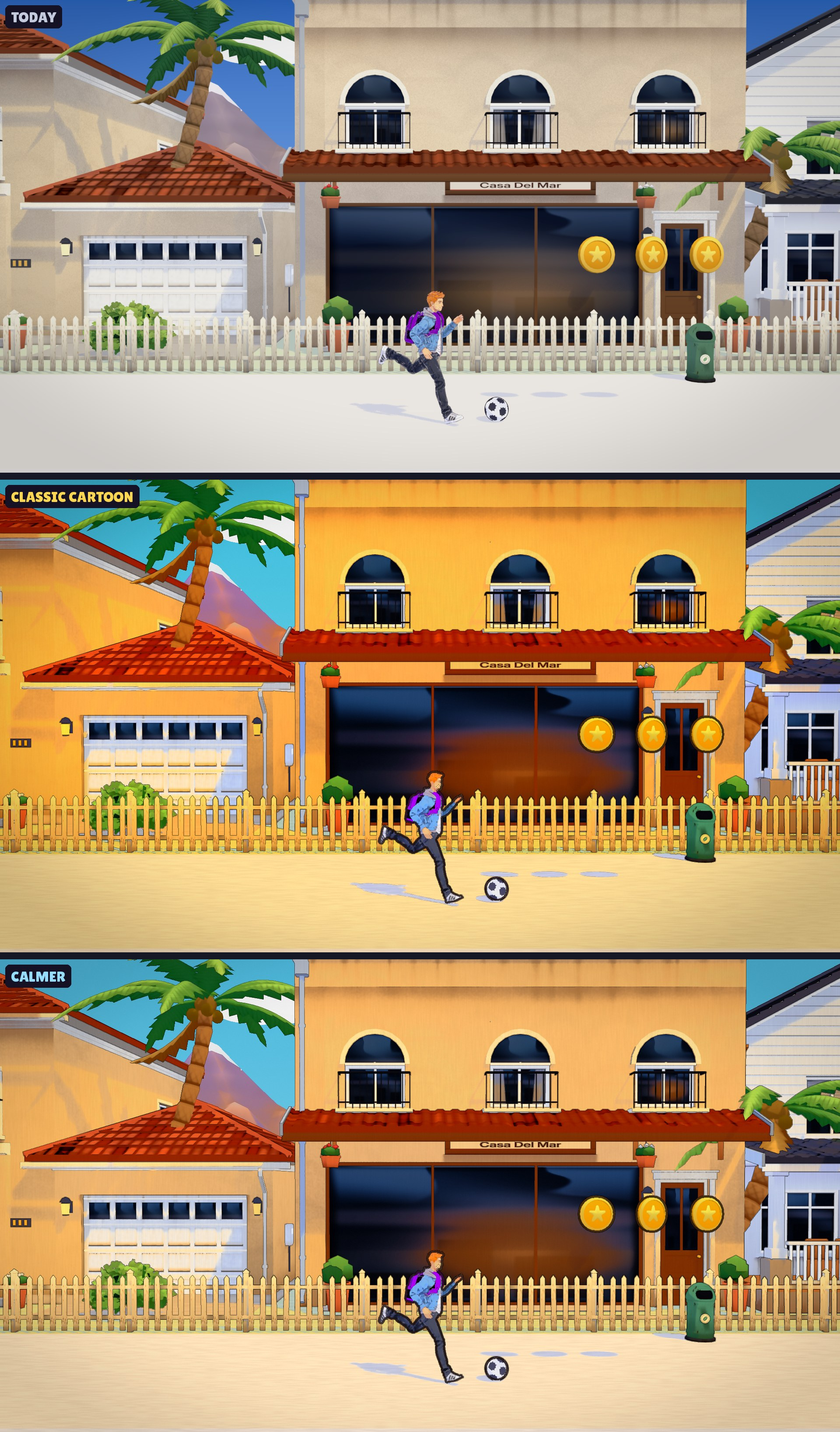
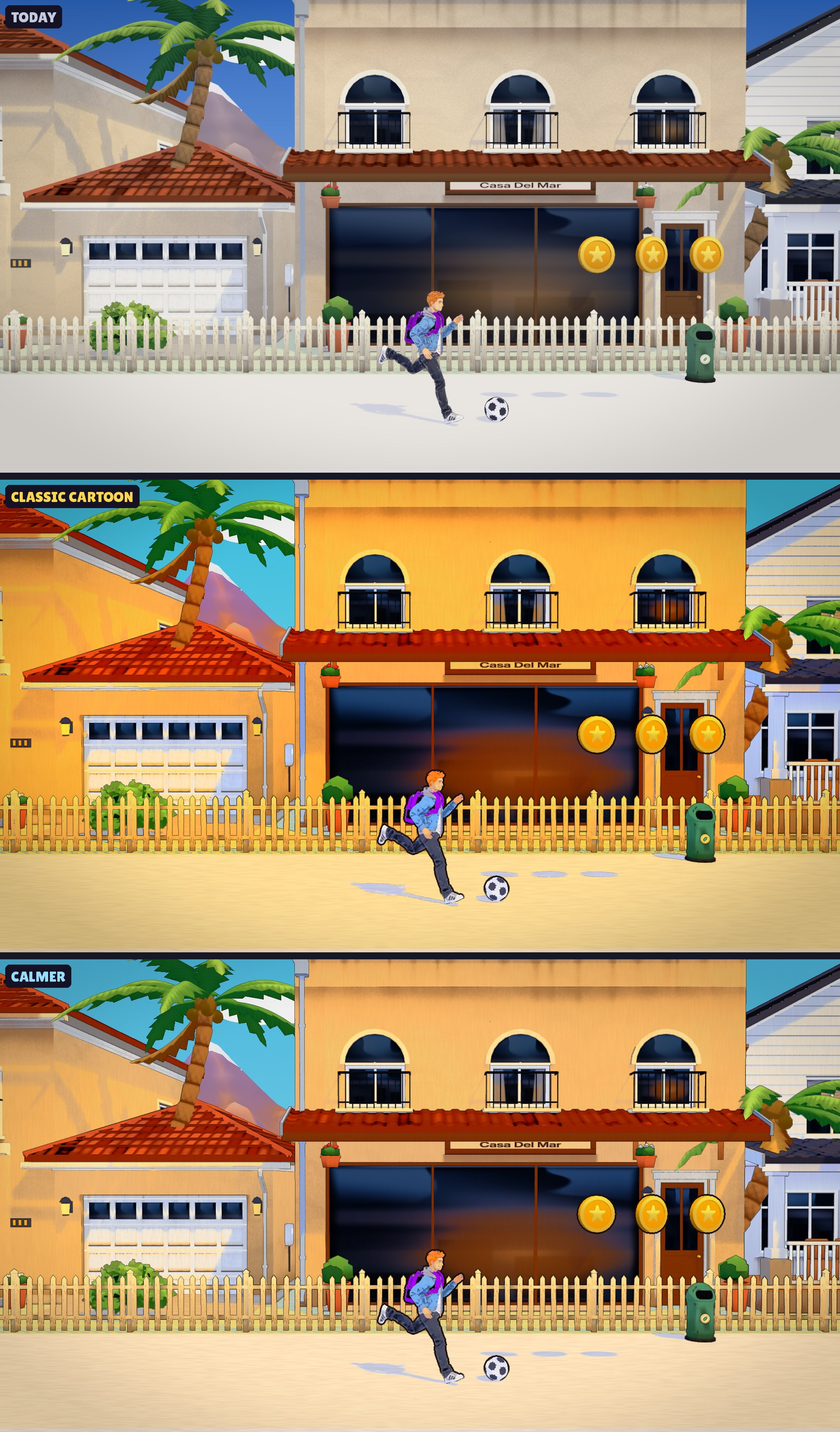
Classic cartoon artwork: the kids' outline no longer covers their faces
The outline was drawn inside the silhouette, so where a face met the
background (the right cheek in the three-quarter view) the line lay over
it. It is now drawn only on the far side of an edge (outside the
silhouette, or on a farther part behind a nearer one), solid up to its
width with an anti-aliased outer edge, sized by the nearer side's
distance. The menus' pictures get their outline outside their shape too.
New board 6_outline.jpg: every kid's face at 3x, before and after.

Claude-Session: https://claude.ai/code/session_015hMH18QThQGLzNLnkdW261

diff --git a/review/cartoon/classic_port.py b/review/cartoon/classic_port.py
@@ -39,7 +39,7 @@ CLASSIC = dict(
     # the cels
     # (the cels keep only strong detail: eyes, brows, mouths, seams; the painted shading's patches are smoothed away)
     celFlatten=1.5, celCoreFrom=0.08, celCoreTo=0.16, celBands=3.0, celBandSoft=0.22, celBandMix=0.6, celSat=1.3,
-    celLine=4.0, celLineFar=1.6, inkWarm=np.array([0.11, 0.06, 0.045]),
+    celLine=3.4, celLineFar=1.5, inkWarm=np.array([0.11, 0.06, 0.045]),   # (drawn outside the silhouette)
     # the painted background
     bgFlatten=2.5, bgSat=1.35, bgVibrance=1.8, bgBands=4.0, bgBandSoft=0.32, bgBandMix=0.6,
     warm=np.array([1.1, 0.97, 0.8]),                  # warm colours pushed toward orange (blues and greens stay)
@@ -184,26 +184,28 @@ def classic_pass(colour, alpha, depth01, normal, far=FAR, k=CLASSIC):
     cl = np.clip(1 - (1 - lb) * 0.9, 0, 1) * np.array([1.0, 1.0, 1.0]) * k['cloudShade'] ** (1 - sp.smoothstep(0.75, 0.95, lb))
     out = out * (1 - cloud) + cl * cloud
 
-    # ---- the cels' ink: a bold warm-black outline all round each figure (from the depth and the mask)
-    wpx = (k['celLine'] + (k['celLineFar'] - k['celLine']) * sp.smoothstep(4.0, 60.0, dist)) * scale
-    ink = np.zeros((h, w))
+    # ---- the cels' ink: a bold warm-black outline round each figure, drawn only on the FAR side of its edges (the
+    # background just outside the silhouette, or a farther part of a figure behind a nearer one), never on the near
+    # side, so it wraps a face without covering any of it. Sized by the nearer side's distance.
     figm = fig[..., 0]
-    for ring in (1.0, 1.5, 2.0, 2.5, 3.0, 3.5, 4.0, 4.5):
+    R = 4.0 * scale
+    dnear = np.minimum.reduce([depth01] + [cp.shift(depth01, dy, dx) for dy, dx in ((0, R), (0, -R), (R, 0), (-R, 0))])
+    wpx = (k['celLine'] + (k['celLineFar'] - k['celLine']) * sp.smoothstep(4.0, 60.0, dnear * far)) * scale
+    ink = np.zeros((h, w))
+    for ring in (1.0, 1.5, 2.0, 2.5, 3.0, 3.5, 4.0):
         r = ring * scale
-        use = np.clip(1 - np.abs(wpx - r) / (0.5 * scale), 0, 1)
+        use = np.clip((wpx - r) / (0.5 * scale) + 1, 0, 1)    # solid ink up to the width, fading over the last half pixel
         if use.max() <= 0:
             continue
-        # the mask read at half-pixel offsets (bilinear), so the line's edge is anti-aliased, not stair-stepped
+        # the mask read half a pixel further out (bilinear), so the line's outer edge is anti-aliased
         rh = r + 0.5
         offs = [(0, rh), (0, -rh), (rh, 0), (-rh, 0), (0.7 * rh, 0.7 * rh), (-0.7 * rh, 0.7 * rh), (0.7 * rh, -0.7 * rh), (-0.7 * rh, -0.7 * rh)]
-        # a figure pixel next to anything that is not the figure, or nearer than it
-        other = np.maximum.reduce([1 - shift_lin(figm, dy, dx) for dy, dx in offs])
-        ds = [cp.shift(depth01, dy, dx) for dy, dx in offs]
-        jumpf = np.maximum.reduce([np.abs(x - depth01) for x in ds]) / np.maximum(np.minimum.reduce([depth01] + ds), 1e-4)
-        edge = np.maximum(other, sp.smoothstep(0.04, 0.09, jumpf)) * figm
-        # and the background pixel just outside a figure (the line straddles the silhouette)
-        outside = np.maximum.reduce([shift_lin(figm, dy, dx) for dy, dx in offs[:4]]) * (1 - figm) * (ring <= 2.5)
-        ink = np.maximum(ink, np.maximum(edge, outside) * use)
+        here = np.zeros((h, w))
+        for dy, dx in offs:
+            dn = cp.shift(depth01, dy, dx)
+            nearer = sp.smoothstep(0.03, 0.07, (depth01 - dn) / np.maximum(dn, 1e-4))   # that neighbour is in front of me
+            here = np.maximum(here, shift_lin(figm, dy, dx) * nearer)
+        ink = np.maximum(ink, here * use)
     out = out + (k['inkWarm'] - out) * ink[..., None]
 
     # ---- the print
@@ -244,9 +246,8 @@ def classic_2d(rgba, painted=False, k=CLASSIC, flatten=None, outline_px=None):
     if outline_px:
         o = outline_px
         offs = [(0, o), (0, -o), (o, 0), (-o, 0), (0.7 * o, 0.7 * o), (-0.7 * o, 0.7 * o), (0.7 * o, -0.7 * o), (-0.7 * o, -0.7 * o)]
-        near = np.maximum.reduce([cp.shift(a, dy, dx) for dy, dx in offs])
-        inner = np.minimum.reduce([cp.shift(a, dy, dx) for dy, dx in offs[:4]])
-        edge = np.clip((np.clip(near - a, 0, 1) + np.clip(a - inner, 0, 1)) * 1.5, 0, 1)
+        near = np.maximum.reduce([shift_lin(a, dy, dx) for dy, dx in offs])
+        edge = np.clip((near - a) * 1.5, 0, 1)          # outside the shape only: nothing of the picture is covered
         out = out * (1 - edge[..., None]) + k['inkWarm'] * edge[..., None]
         a = np.maximum(a, np.clip(near - a, 0, 1))
     return np.dstack([np.clip(out, 0, 1), a])

diff --git a/review/cartoon/compose_boards.py b/review/cartoon/compose_boards.py
@@ -7,6 +7,7 @@ Every board shows three versions side by side: the game today, Classic cartoon, 
   3_ui_art.jpg        the pictures the menus draw: player cards, bags, all 23 stickers, the logo, the town map
   4_screens.jpg       the title screen and the Add-ons & Filters panel with the filter on (mock-ups)
   5_details.jpg       100% crops: the first version beside the crisper one (detail kept)
+  6_outline.jpg       every kid's face at 3x: the outline drawn outside the silhouette, so it never covers a face
   frames/<scene>.jpg  each scene at full size: today, Classic cartoon, calmer"""
 import os, sys, subprocess, importlib.util
 import numpy as np
@@ -28,6 +29,7 @@ YELLOW = (255, 214, 80)
 CALMC = (150, 220, 255)
 SOFT = (196, 202, 222)
 FIRST = 'ab5be92'   # the commit with the first version of the look (for 5_details.jpg)
+INSIDE = 'dd738b6'  # the commit whose outline lay inside the silhouette (for 6_outline.jpg)
 LOOKS = [('TODAY', SOFT), ('CLASSIC CARTOON', YELLOW), ('CALMER', CALMC)]
 
 
@@ -376,20 +378,20 @@ print('4_screens')
 
 
 # ------------------------------------------------------------------ 5. detail at 100%: the first version beside the crisper one
-def first_version():
-    """classic_port.py as first shown (commit FIRST), to show what the crisper version keeps."""
+def version_at(commit):
+    """classic_port.py as it was at a commit, to compare with now."""
     try:
-        src = subprocess.run(['git', '-C', HERE, 'show', FIRST + ':review/cartoon/classic_port.py'], capture_output=True, text=True, check=True).stdout
+        src = subprocess.run(['git', '-C', HERE, 'show', commit + ':review/cartoon/classic_port.py'], capture_output=True, text=True, check=True).stdout
     except Exception:
         return None
-    spec = importlib.util.spec_from_loader('classic_first', loader=None)
+    spec = importlib.util.spec_from_loader('classic_' + commit, loader=None)
     mod = importlib.util.module_from_spec(spec)
     mod.__dict__['__file__'] = os.path.join(HERE, 'classic_port.py')
-    exec(compile(src, 'classic_first', 'exec'), mod.__dict__)
+    exec(compile(src, 'classic_' + commit, 'exec'), mod.__dict__)
     return mod
 
 
-first = first_version()
+first = version_at(FIRST)
 DETAILS = [('market', (380, 280, 980, 620), 'Shop sign, awning, window'), ('home', (1150, 560, 1750, 900), 'Bicycle, coins, post box, block wall'),
            ('cast_a', (760, 230, 1180, 520), 'Max’s face and jacket'), ('cast_a', (1330, 400, 1680, 640), 'Kai’s face, the ball'),
            ('park', (1180, 180, 1780, 520), 'School, arch, lamps'), ('site', (60, 300, 660, 640), 'Digger, scaffold, site fence')]
@@ -411,3 +413,34 @@ for scene, box, title in DETAILS:
     p.append(row)
 stack(p, W5).save(os.path.join(OUT, '5_details.jpg'), quality=90)
 print('5_details')
+
+
+# ------------------------------------------------------------------ 6. the outline: outside the silhouette, never over a face
+inside = version_at(INSIDE)
+cols6 = [('TODAY', SOFT), ('BEFORE: LINE INSIDE', (255, 150, 120)), ('NOW: LINE OUTSIDE', YELLOW)]
+FS6 = 330
+blocks = []
+for scene in ('cast_a', 'cast_b'):
+    colour, alpha, depth01, nrm = cp.load_scene(SRC, scene)
+    o, c, _, _, _ = frames(scene)
+    b = cp.to_img(inside.classic_pass(colour, alpha, depth01, nrm)) if inside else None
+    for (cx, top, hgt), name in zip(heads(alpha, depth01), names[scene]):
+        if name == 'Passer-by':
+            continue
+        sz = int(hgt * 0.3)
+        y0 = max(0, top - sz // 10)
+        box = (cx - sz // 2, y0, cx + sz // 2, y0 + sz)
+        blocks.append((name, [o.crop(box), b.crop(box) if b else None, c.crop(box)]))
+W6 = 2 * (3 * FS6 + 2 * 8) + GAP * 3 + 40
+p = [header(W6, 'CLASSIC CARTOON \u00b7 the kids\u2019 outline', 'The outline is now drawn only outside the silhouette (on the far side of an edge), so it wraps a face and never covers it.')]
+for i in range(0, len(blocks), 2):
+    row = Image.new('RGB', (W6, 64 + FS6 + GAP), BG); d = ImageDraw.Draw(row)
+    for j, (name, ims) in enumerate(blocks[i:i + 2]):
+        x = GAP + j * (3 * FS6 + 16 + GAP + 40)
+        d.text((x, 10), name, font=TITLE(38), fill=(255, 255, 255))
+        for q, (im, (label, colour_)) in enumerate(zip(ims, cols6)):
+            if im is not None:
+                row.paste(tag(im.resize((FS6, FS6), Image.LANCZOS), label, colour_, 20), (x + q * (FS6 + 8), 60))
+    p.append(row)
+stack(p, W6).save(os.path.join(OUT, '6_outline.jpg'), quality=90)
+print('6_outline')

diff --git a/review/cartoon/README.md b/review/cartoon/README.md
@@ -15,6 +15,7 @@ Every board shows three versions side by side: **Today | Classic cartoon | Calme
 | `3_ui_art.jpg` | The menus' pictures: the six player cards, the five Locker Room bags, the logo, all 23 stickers, the town map |
 | `4_screens.jpg` | Mock-ups: the title screen, and the Add-ons & Filters panel with a fourth card, Classic cartoon |
 | `5_details.jpg` | Detail at 100%: today, the first version, the crisper version now, and calmer |
+| `6_outline.jpg` | Every kid's face at 3x: today, the outline before (inside the silhouette, over the cheek) and now (outside) |
 | `frames/*.jpg` | Each scene at full size (1920 x 1080): today, classic cartoon, calmer, to zoom into |
 
 ## Review so far
@@ -30,6 +31,12 @@ Every board shows three versions side by side: **Today | Classic cartoon | Calme
   - The strokes between colours are 1 px (were 1.4) and steeper, so they read as lines, not halos.
   - A light sharpen on the scenery, before and after; none on the faces or the foliage.
   - The kids' outline is anti-aliased (read half a pixel off with bilinear filtering), not stair-stepped.
+- **Faces cut off by the outline (fixed):** the kids' outline was drawn inside their silhouette, so where a face
+  met the background (the right cheek in the three-quarter view) the line lay over it. It is now drawn only on the
+  far side of an edge: outside the silhouette, or on a farther part behind a nearer one, never on the near side. It
+  wraps a face without covering any of it (`6_outline.jpg`), is solid up to its width (3.4 px near the camera, 1.5 px
+  far) with an anti-aliased outer edge, and is sized by the nearer side's distance. The menus' pictures (player
+  cards, bags, stickers) get their outline outside their shape too.
   - Faces: only strong detail is kept (eyes, brows, mouths), the painted shading's patches are smoothed, and the
     tone steps are softer, so skin is clean rather than blotchy.
   - Much fainter brush streaks (0.025, were 0.07) and film grain (0.012, were 0.035).
@@ -38,7 +45,7 @@ Every board shows three versions side by side: **Today | Classic cartoon | Calme
 
 | In the Road Runner frames | In the filter (`classic_port.py`) |
 |---|---|
-| Characters are cels: flat colour in one or two tones, a bold dark-brown ink line all round | The kids, passers-by and ball, and the things the kid plays with (coins, animals, cars, crates, cones, the pipe), are cels: flat tones and a smooth 4 px warm-black outline near the camera |
+| Characters are cels: flat colour in one or two tones, a bold dark-brown ink line all round | The kids, passers-by and ball, and the things the kid plays with (coins, animals, cars, crates, cones, the pipe), are cels: flat tones and a smooth warm-black outline round the outside (3.4 px near the camera) |
 | Backgrounds are painted, not inked: soft airbrushed tone, brush texture | The scenery has no black lines: smoothed texture, soft tone steps, faint brush streaks |
 | Forms in the background are separated by darker strokes of their own colour | Where colours meet, and where a nearer form overlaps a farther one, a darker stroke of the same colour |
 | Hot, warm, saturated colour; shadows rich and warm, never grey | Reds, oranges, yellows and beiges pushed to orange and gold; quiet colours lifted; shadows pushed to warm browns. Blues and greens keep their hue |
